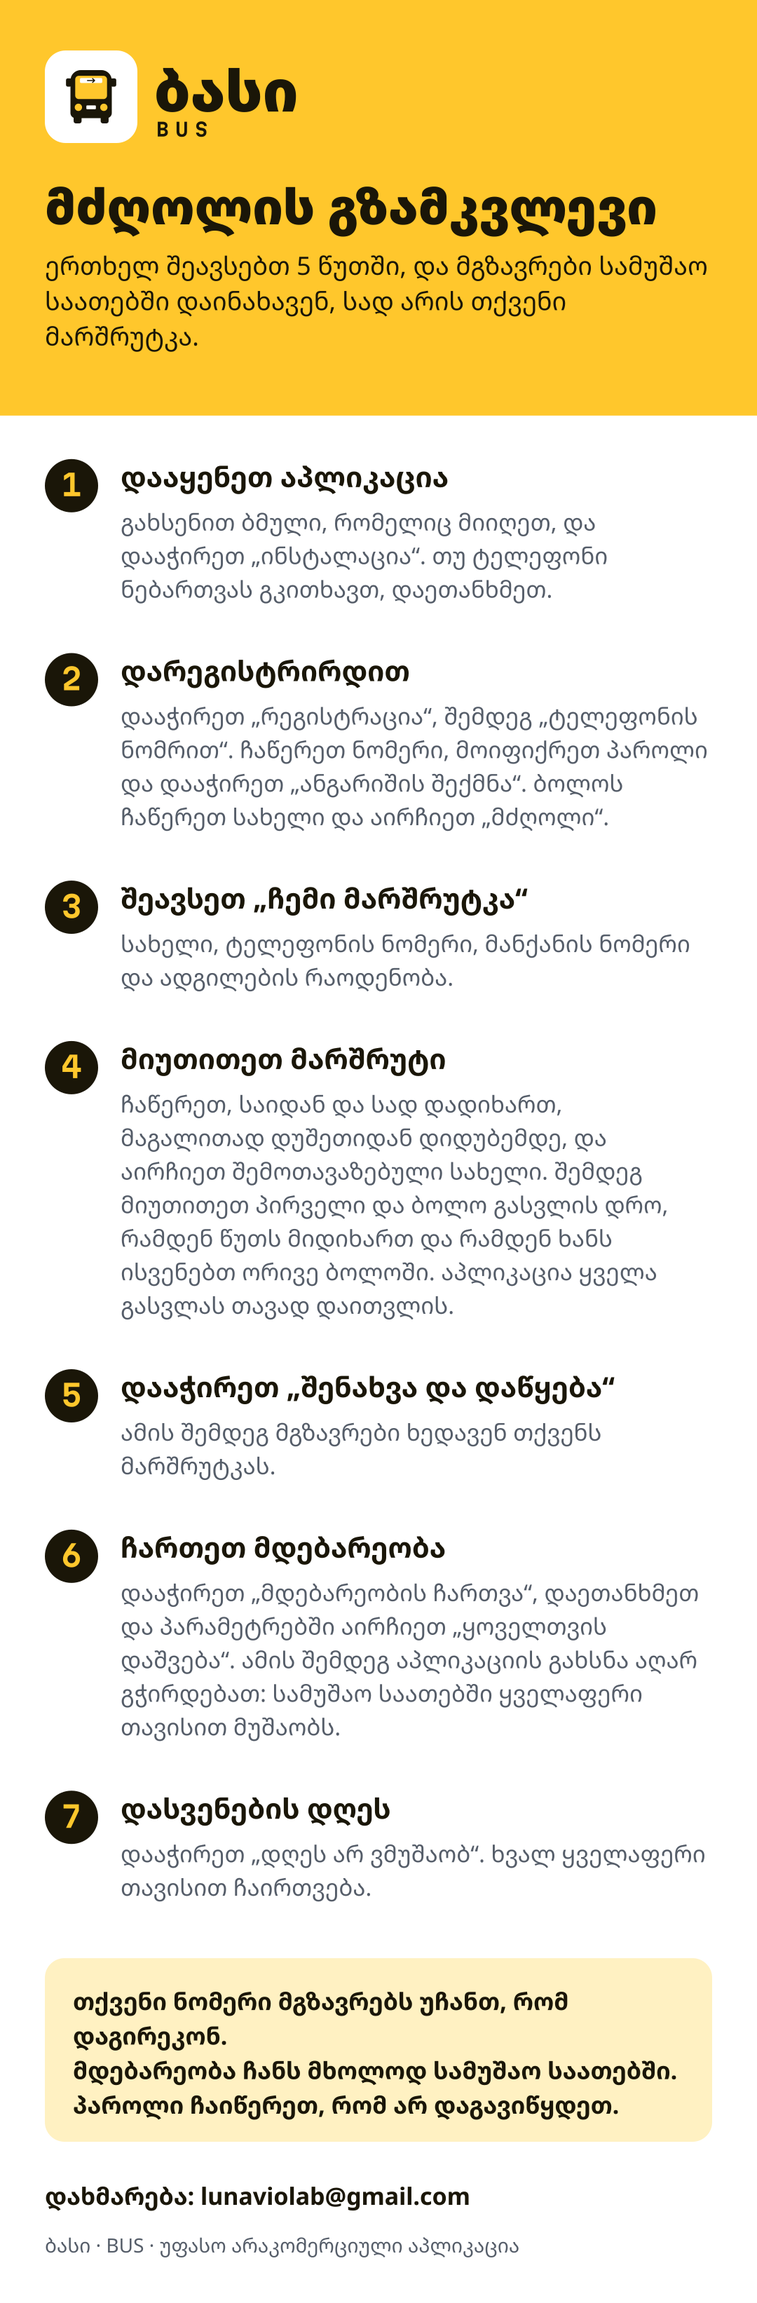
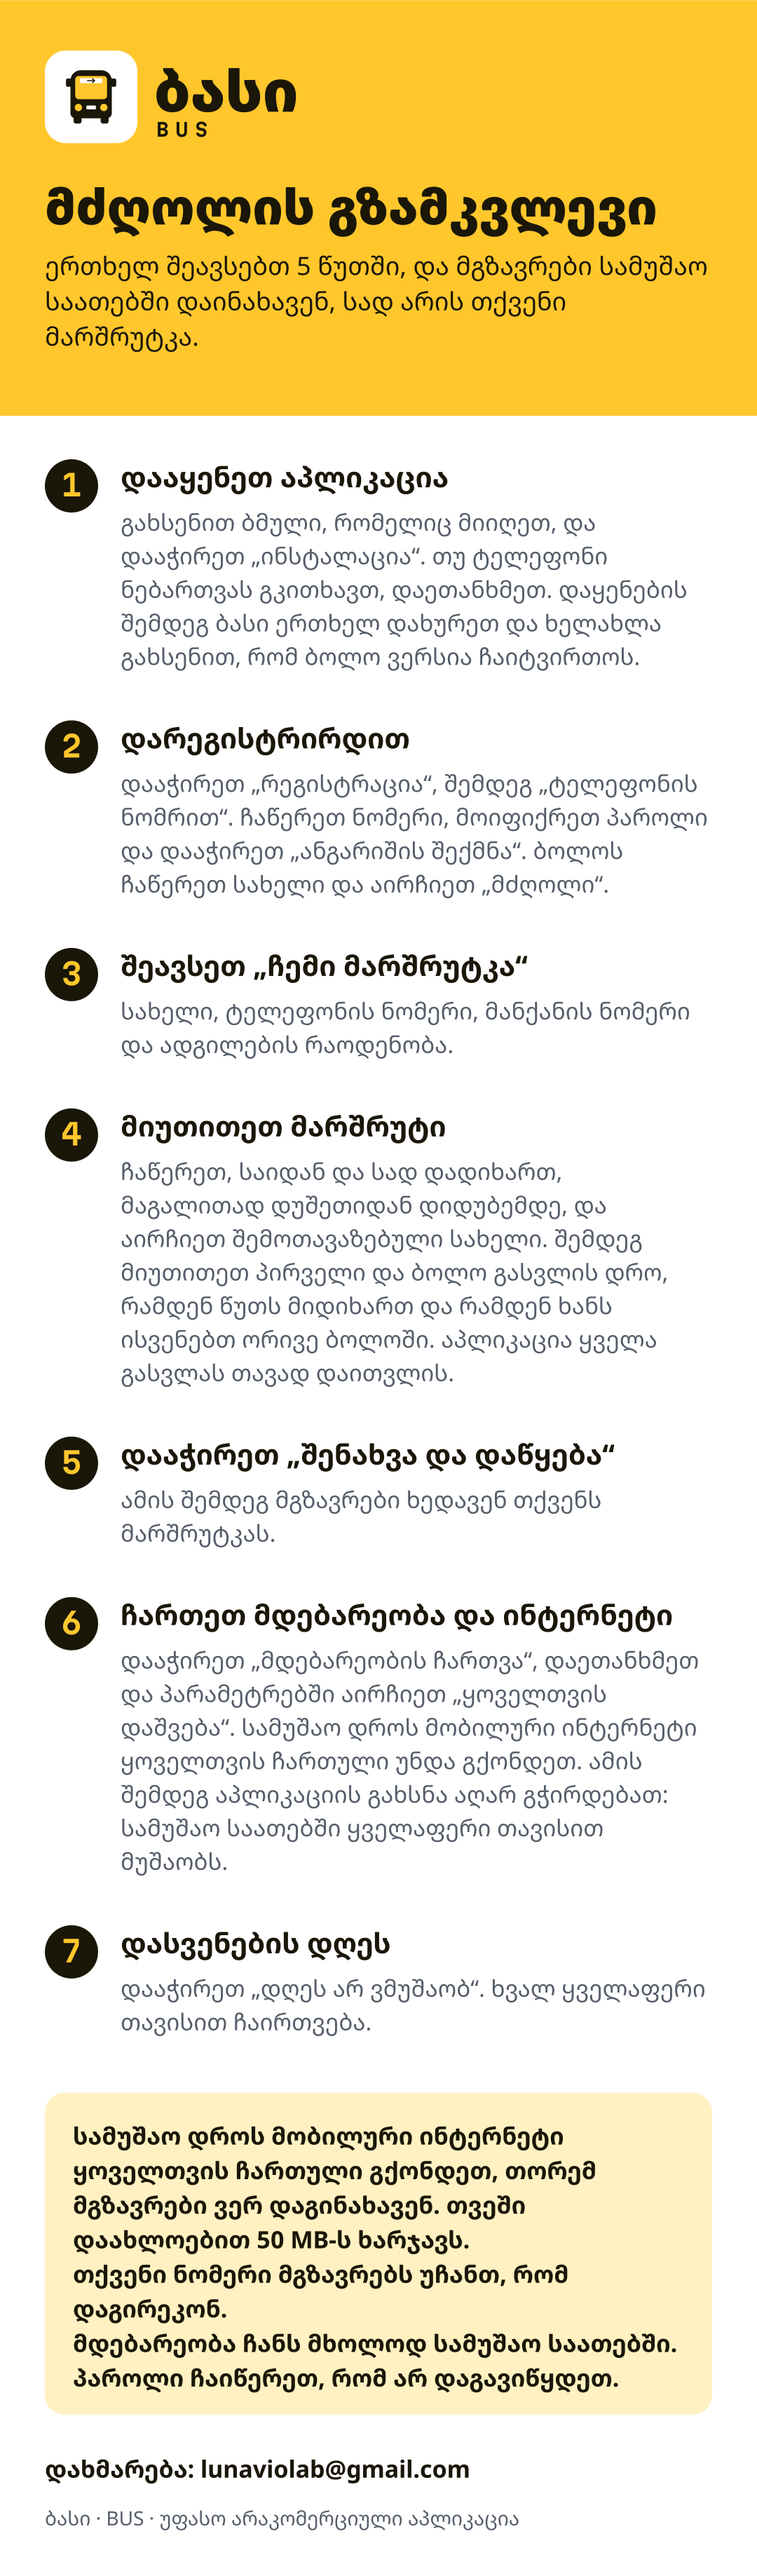
Tell drivers to keep mobile internet on while working
The drivers section and the driver guide now say that mobile internet
must stay on during working hours, or passengers can't see them.

Changed region(s): [[0.0, 0.0, 1.0, 0.9936], [0.0611, 0.5589, 0.1222, 0.6831], [0.0611, 0.2795, 0.1222, 0.3105]]

diff --git a/index.html b/index.html
@@ -120,7 +120,7 @@
     </div>
     <div class="feature">
       <h3>მძღოლებისთვის</h3>
-      <p class="muted">ერთხელ ჩაწერეთ მარშრუტი და პირველი და ბოლო გასვლის დრო. სამუშაო საათებში მგზავრები თავად დაინახავენ, სად ხართ. <a href="driver-guide.png">მძღოლის გზამკვლევი</a></p>
+      <p class="muted">ერთხელ ჩაწერეთ მარშრუტი, პირველი და ბოლო გასვლა, გზაში დრო და შესვენება. სამუშაო დროს მობილური ინტერნეტი ყოველთვის ჩართული გქონდეთ, და მგზავრები თავად დაინახავენ, სად ხართ. <a href="driver-guide.png">მძღოლის გზამკვლევი</a></p>
     </div>
     <div class="feature">
       <h3>მარტივია ყველასთვის</h3>
